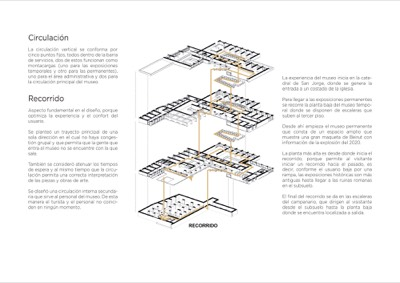
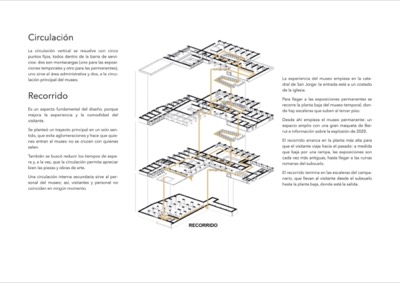
Mundaneum: gramática corregida en las láminas 03, 04 y 06 y en el resumen

diff --git a/src/proyectos.js b/src/proyectos.js
@@ -161,7 +161,7 @@ export const disenos = [
     tipo: 'Museo',
     ubicacion: 'Beirut, Líbano',
     anio: 2022,
-    resumen: 'Tras la explosión del puerto de Beirut en 2020, un plan masa conecta los hitos históricos de la ciudad. El edificio es un museo de sitio junto al Foro Romano, inspirado en el Mundaneum de Paul Otlet, que cuenta la historia de Beirut: el recorrido empieza en la catedral de San Jorge y termina en el campanario.',
+    resumen: 'Tras la explosión del puerto de Beirut en 2020, un plan masa conecta los hitos históricos de la ciudad. El edificio, inspirado en el Mundaneum de Paul Otlet, es un museo de sitio junto al Foro Romano que cuenta la historia de Beirut: el recorrido empieza en la catedral de San Jorge y termina en el campanario.',
     portada: '/img/disenos/mundaneum-beirut.jpg',
     alt: 'Mundaneum Beirut: fachada de arcos junto a la mezquita, con las ruinas romanas al frente',
     fotos: galeria('mundaneum-beirut', [
@@ -170,7 +170,7 @@ export const disenos = [
       'Museo de sitio histórico: concepto y vista interior',
       'Circulación y recorrido',
       'Emplazamiento junto al Foro Romano, la mezquita y la catedral',
-      'Ubicación, plan masa, tipología de los edificios y ejes del foro romano',
+      'Ubicación, plan masa, tipología de los edificios y ejes del Foro Romano',
       'Estructura y programa',
       'Planta baja',
       'Planta +6,00',
